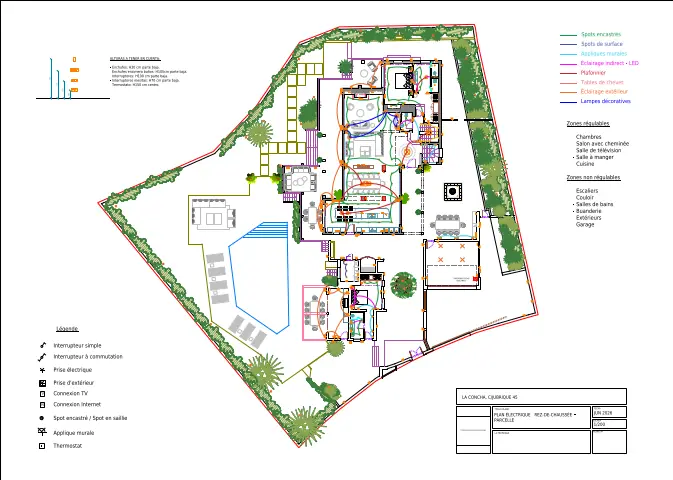
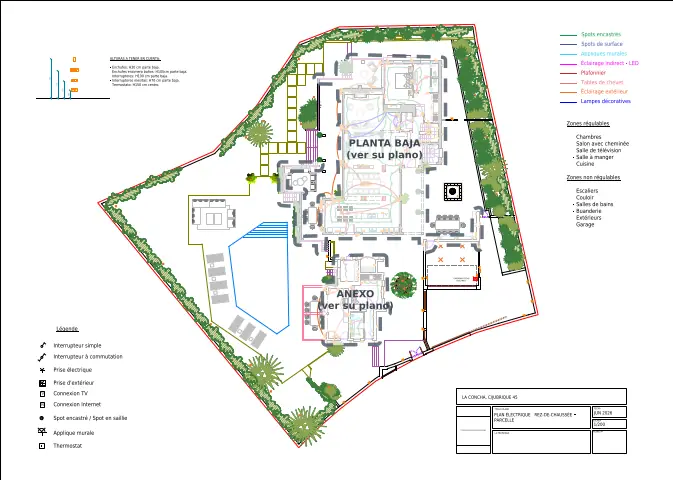
La Concha: exterior en 2 zonas (norte y sur) y planta baja y anexo atenuados en su plano
El plano de exterior repite la planta baja (261 de 261 elementos) y el anexo (68 de 69); solo 32 elementos son propios del exterior.

Claude-Session: https://claude.ai/code/session_01Jc8wu4JaYkxdfA7jJdb3wN

Changed region(s): [[0.4056, 0.0938, 0.7177, 0.7188]]

diff --git a/la-concha/index.html b/la-concha/index.html
@@ -318,7 +318,7 @@ button.chk:hover{background:var(--hot)}
 </main>
 
 <script>
-const DATA={"cfg":{"kind":"electrica","title":"Visor de planos · La Concha","site":{"name":"La Concha","sub":"C/ Jubrique 45 · Instalación eléctrica"},"obraId":"recQNYGyQ1ju7TomO","progressUrl":"https://formularioiec-bff-iec-294739714316.europe-southwest1.run.app/avance?obra=recQNYGyQ1ju7TomO","writeUrl":"https://formularioiec-bff-iec-294739714316.europe-southwest1.run.app/avance","modo":"escritura","imgV":"20261103","labels":{"l2":"Zona","l2p":"Zonas","a2":"una zona","intro0":"Cada color es una planta. Las zonas reparten cada planta por superficie."},"alt0":"Plano general con las hojas de exterior, planta baja, planta alta, sótano y anexo","checklist":[{"id":"tubo","label":"Tubo"},{"id":"caja","label":"Cajas"},{"id":"cable","label":"Cableado"},{"id":"mecanismos","label":"Mecanismos"},{"id":"luminarias","label":"Luminarias"},{"id":"cuadro","label":"Cuadro eléctrico","soloEn":[]}],"checklistProvisional":false},"buildings":[{"id":"EXT","nm":"Exterior","tipo":"EXT","col":2,"poly":[[132.1,432.2],[508.6,432.2],[508.6,165.9],[132.1,165.9]],"lab":[320.4,299.1],"img":"img/edif_EXT.webp"},{"id":"PB","nm":"Planta baja","tipo":"PB","col":1,"poly":[[674.0,322.9],[862.3,322.9],[862.3,189.8],[674.0,189.8]],"lab":[768.2,256.4],"img":"img/edif_PB.webp"},{"id":"PA","nm":"Planta alta","tipo":"PA","col":3,"poly":[[194.0,636.1],[382.2,636.1],[382.2,502.9],[194.0,502.9]],"lab":[288.1,569.5],"img":"img/edif_PA.webp"},{"id":"SOT","nm":"Sótano","tipo":"SOT","col":5,"poly":[[193.6,809.5],[334.8,809.5],[334.8,709.6],[193.6,709.6]],"lab":[264.2,759.5],"img":"img/edif_SOT.webp"},{"id":"ANX","nm":"Anexo","tipo":"ANX","col":4,"poly":[[996.3,292.8],[1090.5,292.8],[1090.5,226.3],[996.3,226.3]],"lab":[1043.4,259.6],"img":"img/edif_ANX.webp"}],"tipos":{"EXT":{"cubs":[{"id":"1","img":"img/EXT_Z1.webp","poly":[[530.1,74.3],[600.3,47.1],[839.0,42.7],[894.6,296.1],[521.5,296.1],[521.5,86.8]],"lab":[696.5,191.4],"m2":159},{"id":"2","img":"img/EXT_Z2.webp","poly":[[172.7,355.7],[377.4,265.8],[453.4,186.0],[521.5,86.8],[521.5,368.6],[183.5,368.6]],"lab":[468.4,225.9],"m2":159},{"id":"3","img":"img/EXT_Z3.webp","poly":[[183.5,368.6],[521.5,368.6],[521.5,483.6],[278.7,483.6]],"lab":[376.3,426.1],"m2":159},{"id":"4","img":"img/EXT_Z4.webp","poly":[[949.5,541.3],[521.5,541.3],[521.5,296.1],[894.6,296.1]],"lab":[721.8,418.7],"m2":159},{"id":"5","img":"img/EXT_Z5.webp","poly":[[278.7,483.6],[521.5,483.6],[521.5,776.7]],"lab":[460.8,630.2],"m2":159},{"id":"6","img":"img/EXT_Z6.webp","poly":[[665.2,668.3],[601.4,717.6],[565.1,748.9],[528.7,785.4],[521.5,776.7],[521.5,541.3],[949.5,541.3],[951.9,552.0],[842.8,583.5],[773.1,612.1],[731.8,631.7]],"lab":[610.0,650.0],"m2":159}]},"PB":{"cubs":[{"id":"1","img":"img/PB_Z1.webp","poly":[[527.2,41.5],[531.4,20.2],[654.7,24.0],[654.7,199.4],[503.1,199.4],[503.1,167.7],[497.4,163.4],[497.4,102.5],[419.4,101.0],[413.8,89.7],[490.3,89.7],[491.7,44.3]],"lab":[576.1,132.9],"m2":35},{"id":"2","img":"img/PB_Z2.webp","poly":[[654.7,24.0],[856.0,30.2],[856.0,167.7],[654.7,167.7]],"lab":[755.3,98.9],"m2":35},{"id":"3","img":"img/PB_Z3.webp","poly":[[654.7,384.8],[497.5,384.8],[503.1,377.4],[503.1,289.6],[497.4,285.3],[497.4,259.8],[503.1,255.5],[503.1,199.4],[654.7,199.4]],"lab":[578.9,333.5],"m2":35},{"id":"4","img":"img/PB_Z4.webp","poly":[[654.7,308.4],[654.7,167.7],[856.0,167.7],[856.0,308.4]],"lab":[755.3,238.1],"m2":35},{"id":"5","img":"img/PB_Z5.webp","poly":[[792.2,401.5],[792.2,472.4],[654.7,472.4],[654.7,308.4],[856.0,308.4],[856.0,395.9]],"lab":[755.3,352.1],"m2":35},{"id":"6","img":"img/PB_Z6.webp","poly":[[435.0,643.9],[430.8,703.5],[422.3,700.6],[420.9,669.5],[345.7,666.6],[347.2,532.0],[289.1,527.7],[287.6,397.3],[422.3,397.3],[419.4,405.8],[297.6,407.2],[297.6,488.0],[364.2,492.3],[357.1,496.5],[358.5,658.1],[428.0,656.7],[428.0,617.0],[435.0,612.8],[435.0,540.5],[428.0,536.2],[428.0,513.5],[496.0,510.7],[503.1,505.0],[497.5,384.8],[545.5,384.8],[545.5,643.9]],"lab":[490.3,576.6],"m2":35},{"id":"7","img":"img/PB_Z7.webp","poly":[[545.5,643.9],[545.5,384.8],[654.7,384.8],[654.7,643.9]],"lab":[600.1,514.4],"m2":35},{"id":"8","img":"img/PB_Z8.webp","poly":[[792.2,652.4],[972.2,653.9],[973.6,560.3],[984.9,557.5],[984.9,685.0],[980.7,666.6],[829.0,666.6],[816.3,687.9],[800.7,692.1],[786.5,682.2],[785.1,643.9],[654.7,643.9],[654.7,472.4],[792.2,472.4]],"lab":[723.5,602.1],"m2":35}]},"PA":{"cubs":[{"id":"1","img":"img/PA_Z1.webp","poly":[[829.9,84.5],[829.9,199.9],[606.4,199.9],[606.4,70.7],[625.8,70.4],[630.1,80.3]],"lab":[718.2,142.2],"m2":33},{"id":"2","img":"img/PA_Z2.webp","poly":[[469.9,318.6],[469.9,180.9],[535.1,176.7],[539.4,71.8],[606.4,70.7],[606.4,318.6]],"lab":[538.2,249.8],"m2":33},{"id":"3","img":"img/PA_Z3.webp","poly":[[829.9,318.6],[606.4,318.6],[606.4,199.9],[829.9,199.9]],"lab":[718.2,259.3],"m2":33},{"id":"4","img":"img/PA_Z4.webp","poly":[[535.6,508.5],[535.1,465.8],[469.9,460.2],[469.9,318.6],[625.3,318.6],[625.3,508.5]],"lab":[547.6,389.4],"m2":33},{"id":"5","img":"img/PA_Z5.webp","poly":[[761.9,461.6],[686.8,463.0],[686.2,508.5],[625.3,508.5],[625.3,318.6],[829.9,318.6],[829.9,373.7],[764.7,379.4]],"lab":[694.3,420.5],"m2":33},{"id":"6","img":"img/PA_Z6.webp","poly":[[683.9,689.8],[536.5,687.0],[542.2,607.6],[536.5,603.3],[535.6,508.5],[686.2,508.5]],"lab":[610.8,555.9],"m2":33}]},"SOT":{"cubs":[{"id":"1","img":"img/SOT_Z1.webp","poly":[[572.1,351.8],[572.1,47.3],[733.4,47.3],[733.4,351.8]],"lab":[652.7,199.5],"m2":34},{"id":"2","img":"img/SOT_Z2.webp","poly":[[935.5,192.8],[1003.5,192.8],[1003.5,334.5],[960.0,330.7],[958.1,223.0],[833.4,224.9],[832.6,351.8],[733.4,351.8],[733.4,47.3],[837.2,47.3],[842.9,109.6],[931.7,113.4]],"lab":[868.4,207.9],"m2":34},{"id":"3","img":"img/SOT_Z3.webp","poly":[[206.2,334.5],[281.8,328.8],[281.8,253.3],[442.3,253.3],[448.0,213.6],[499.0,213.6],[504.7,47.3],[572.1,47.3],[572.1,358.0],[207.0,358.0]],"lab":[537.0,130.4],"m2":34},{"id":"4","img":"img/SOT_Z4.webp","poly":[[266.6,391.2],[208.1,391.2],[207.0,358.0],[572.1,358.0],[572.1,518.4],[281.8,518.4],[281.8,398.8]],"lab":[426.9,458.6],"m2":34},{"id":"5","img":"img/SOT_Z5.webp","poly":[[831.5,515.9],[652.1,519.7],[646.4,565.0],[584.0,565.0],[582.2,774.8],[572.1,775.1],[572.1,351.8],[832.6,351.8]],"lab":[610.7,542.4],"m2":34},{"id":"6","img":"img/SOT_Z6.webp","poly":[[459.4,744.5],[404.6,740.8],[404.6,623.6],[383.8,617.9],[383.8,576.4],[281.8,570.7],[281.8,518.4],[572.1,518.4],[572.1,775.1],[465.0,778.6]],"lab":[488.3,682.2],"m2":34}]},"ANX":{"cubs":[{"id":"1","img":"img/ANX_Z1.webp","poly":[[877.6,439.7],[460.8,439.7],[459.3,336.9],[535.9,328.4],[538.7,147.0],[748.5,141.3],[757.0,127.1],[768.3,141.3],[870.4,141.3]],"lab":[705.0,237.7],"m2":34},{"id":"2","img":"img/ANX_Z2.webp","poly":[[878.9,492.8],[895.9,501.3],[895.9,518.4],[825.0,526.9],[825.0,722.5],[465.0,728.1],[460.8,439.7],[877.6,439.7]],"lab":[644.3,624.7],"m2":34}]}}};
+const DATA={"cfg":{"kind":"electrica","title":"Visor de planos · La Concha","site":{"name":"La Concha","sub":"C/ Jubrique 45 · Instalación eléctrica"},"obraId":"recQNYGyQ1ju7TomO","progressUrl":"https://formularioiec-bff-iec-294739714316.europe-southwest1.run.app/avance?obra=recQNYGyQ1ju7TomO","writeUrl":"https://formularioiec-bff-iec-294739714316.europe-southwest1.run.app/avance","modo":"escritura","imgV":"20261104","labels":{"l2":"Zona","l2p":"Zonas","a2":"una zona","intro0":"Cada color es una planta. Las zonas reparten cada planta por superficie; el exterior va en dos zonas (norte y sur) y lo ya dibujado en planta baja y anexo se ve atenuado."},"alt0":"Plano general con las hojas de exterior, planta baja, planta alta, sótano y anexo","checklist":[{"id":"tubo","label":"Tubo"},{"id":"caja","label":"Cajas"},{"id":"cable","label":"Cableado"},{"id":"mecanismos","label":"Mecanismos"},{"id":"luminarias","label":"Luminarias"},{"id":"cuadro","label":"Cuadro eléctrico","soloEn":[]}],"checklistProvisional":false},"buildings":[{"id":"EXT","nm":"Exterior","tipo":"EXT","col":2,"poly":[[132.1,432.2],[508.6,432.2],[508.6,165.9],[132.1,165.9]],"lab":[320.4,299.1],"img":"img/edif_EXT.webp"},{"id":"PB","nm":"Planta baja","tipo":"PB","col":1,"poly":[[674.0,322.9],[862.3,322.9],[862.3,189.8],[674.0,189.8]],"lab":[768.2,256.4],"img":"img/edif_PB.webp"},{"id":"PA","nm":"Planta alta","tipo":"PA","col":3,"poly":[[194.0,636.1],[382.2,636.1],[382.2,502.9],[194.0,502.9]],"lab":[288.1,569.5],"img":"img/edif_PA.webp"},{"id":"SOT","nm":"Sótano","tipo":"SOT","col":5,"poly":[[193.6,809.5],[334.8,809.5],[334.8,709.6],[193.6,709.6]],"lab":[264.2,759.5],"img":"img/edif_SOT.webp"},{"id":"ANX","nm":"Anexo","tipo":"ANX","col":4,"poly":[[996.3,292.8],[1090.5,292.8],[1090.5,226.3],[996.3,226.3]],"lab":[1043.4,259.6],"img":"img/edif_ANX.webp"}],"tipos":{"EXT":{"cubs":[{"id":"1","img":"img/EXT_Z1.webp","poly":[[172.7,355.7],[377.4,265.8],[453.4,186.0],[530.1,74.3],[600.3,47.1],[839.0,42.7],[910.9,369.1],[183.9,369.1]],"lab":[527.0,210.9],"m2":496},{"id":"2","img":"img/EXT_Z2.webp","poly":[[665.2,668.3],[601.4,717.6],[565.1,748.9],[528.7,785.4],[183.9,369.1],[910.9,369.1],[951.9,552.0],[842.8,583.5],[773.1,612.1],[731.8,631.7]],"lab":[457.8,520.1],"m2":767}]},"PB":{"cubs":[{"id":"1","img":"img/PB_Z1.webp","poly":[[527.2,41.5],[531.4,20.2],[654.7,24.0],[654.7,199.4],[503.1,199.4],[503.1,167.7],[497.4,163.4],[497.4,102.5],[419.4,101.0],[413.8,89.7],[490.3,89.7],[491.7,44.3]],"lab":[576.1,132.9],"m2":35},{"id":"2","img":"img/PB_Z2.webp","poly":[[654.7,24.0],[856.0,30.2],[856.0,167.7],[654.7,167.7]],"lab":[755.3,98.9],"m2":35},{"id":"3","img":"img/PB_Z3.webp","poly":[[654.7,384.8],[497.5,384.8],[503.1,377.4],[503.1,289.6],[497.4,285.3],[497.4,259.8],[503.1,255.5],[503.1,199.4],[654.7,199.4]],"lab":[578.9,333.5],"m2":35},{"id":"4","img":"img/PB_Z4.webp","poly":[[654.7,308.4],[654.7,167.7],[856.0,167.7],[856.0,308.4]],"lab":[755.3,238.1],"m2":35},{"id":"5","img":"img/PB_Z5.webp","poly":[[792.2,401.5],[792.2,472.4],[654.7,472.4],[654.7,308.4],[856.0,308.4],[856.0,395.9]],"lab":[755.3,352.1],"m2":35},{"id":"6","img":"img/PB_Z6.webp","poly":[[435.0,643.9],[430.8,703.5],[422.3,700.6],[420.9,669.5],[345.7,666.6],[347.2,532.0],[289.1,527.7],[287.6,397.3],[422.3,397.3],[419.4,405.8],[297.6,407.2],[297.6,488.0],[364.2,492.3],[357.1,496.5],[358.5,658.1],[428.0,656.7],[428.0,617.0],[435.0,612.8],[435.0,540.5],[428.0,536.2],[428.0,513.5],[496.0,510.7],[503.1,505.0],[497.5,384.8],[545.5,384.8],[545.5,643.9]],"lab":[490.3,576.6],"m2":35},{"id":"7","img":"img/PB_Z7.webp","poly":[[545.5,643.9],[545.5,384.8],[654.7,384.8],[654.7,643.9]],"lab":[600.1,514.4],"m2":35},{"id":"8","img":"img/PB_Z8.webp","poly":[[792.2,652.4],[972.2,653.9],[973.6,560.3],[984.9,557.5],[984.9,685.0],[980.7,666.6],[829.0,666.6],[816.3,687.9],[800.7,692.1],[786.5,682.2],[785.1,643.9],[654.7,643.9],[654.7,472.4],[792.2,472.4]],"lab":[723.5,602.1],"m2":35}]},"PA":{"cubs":[{"id":"1","img":"img/PA_Z1.webp","poly":[[829.9,84.5],[829.9,199.9],[606.4,199.9],[606.4,70.7],[625.8,70.4],[630.1,80.3]],"lab":[718.2,142.2],"m2":33},{"id":"2","img":"img/PA_Z2.webp","poly":[[469.9,318.6],[469.9,180.9],[535.1,176.7],[539.4,71.8],[606.4,70.7],[606.4,318.6]],"lab":[538.2,249.8],"m2":33},{"id":"3","img":"img/PA_Z3.webp","poly":[[829.9,318.6],[606.4,318.6],[606.4,199.9],[829.9,199.9]],"lab":[718.2,259.3],"m2":33},{"id":"4","img":"img/PA_Z4.webp","poly":[[535.6,508.5],[535.1,465.8],[469.9,460.2],[469.9,318.6],[625.3,318.6],[625.3,508.5]],"lab":[547.6,389.4],"m2":33},{"id":"5","img":"img/PA_Z5.webp","poly":[[761.9,461.6],[686.8,463.0],[686.2,508.5],[625.3,508.5],[625.3,318.6],[829.9,318.6],[829.9,373.7],[764.7,379.4]],"lab":[694.3,420.5],"m2":33},{"id":"6","img":"img/PA_Z6.webp","poly":[[683.9,689.8],[536.5,687.0],[542.2,607.6],[536.5,603.3],[535.6,508.5],[686.2,508.5]],"lab":[610.8,555.9],"m2":33}]},"SOT":{"cubs":[{"id":"1","img":"img/SOT_Z1.webp","poly":[[572.1,351.8],[572.1,47.3],[733.4,47.3],[733.4,351.8]],"lab":[652.7,199.5],"m2":34},{"id":"2","img":"img/SOT_Z2.webp","poly":[[935.5,192.8],[1003.5,192.8],[1003.5,334.5],[960.0,330.7],[958.1,223.0],[833.4,224.9],[832.6,351.8],[733.4,351.8],[733.4,47.3],[837.2,47.3],[842.9,109.6],[931.7,113.4]],"lab":[868.4,207.9],"m2":34},{"id":"3","img":"img/SOT_Z3.webp","poly":[[206.2,334.5],[281.8,328.8],[281.8,253.3],[442.3,253.3],[448.0,213.6],[499.0,213.6],[504.7,47.3],[572.1,47.3],[572.1,358.0],[207.0,358.0]],"lab":[537.0,130.4],"m2":34},{"id":"4","img":"img/SOT_Z4.webp","poly":[[266.6,391.2],[208.1,391.2],[207.0,358.0],[572.1,358.0],[572.1,518.4],[281.8,518.4],[281.8,398.8]],"lab":[426.9,458.6],"m2":34},{"id":"5","img":"img/SOT_Z5.webp","poly":[[831.5,515.9],[652.1,519.7],[646.4,565.0],[584.0,565.0],[582.2,774.8],[572.1,775.1],[572.1,351.8],[832.6,351.8]],"lab":[610.7,542.4],"m2":34},{"id":"6","img":"img/SOT_Z6.webp","poly":[[459.4,744.5],[404.6,740.8],[404.6,623.6],[383.8,617.9],[383.8,576.4],[281.8,570.7],[281.8,518.4],[572.1,518.4],[572.1,775.1],[465.0,778.6]],"lab":[488.3,682.2],"m2":34}]},"ANX":{"cubs":[{"id":"1","img":"img/ANX_Z1.webp","poly":[[877.6,439.7],[460.8,439.7],[459.3,336.9],[535.9,328.4],[538.7,147.0],[748.5,141.3],[757.0,127.1],[768.3,141.3],[870.4,141.3]],"lab":[705.0,237.7],"m2":34},{"id":"2","img":"img/ANX_Z2.webp","poly":[[878.9,492.8],[895.9,501.3],[895.9,518.4],[825.0,526.9],[825.0,722.5],[465.0,728.1],[460.8,439.7],[877.6,439.7]],"lab":[644.3,624.7],"m2":34}]}}};
 (()=>{
 addEventListener('error',()=>{const l=document.getElementById('loading'); if(l&&l.isConnected) l.textContent='Este navegador no puede abrir el visor. Actualízalo o prueba con Chrome o Safari recientes.';});
 const SW=1191, SH=842, NS='http://www.w3.org/2000/svg';
